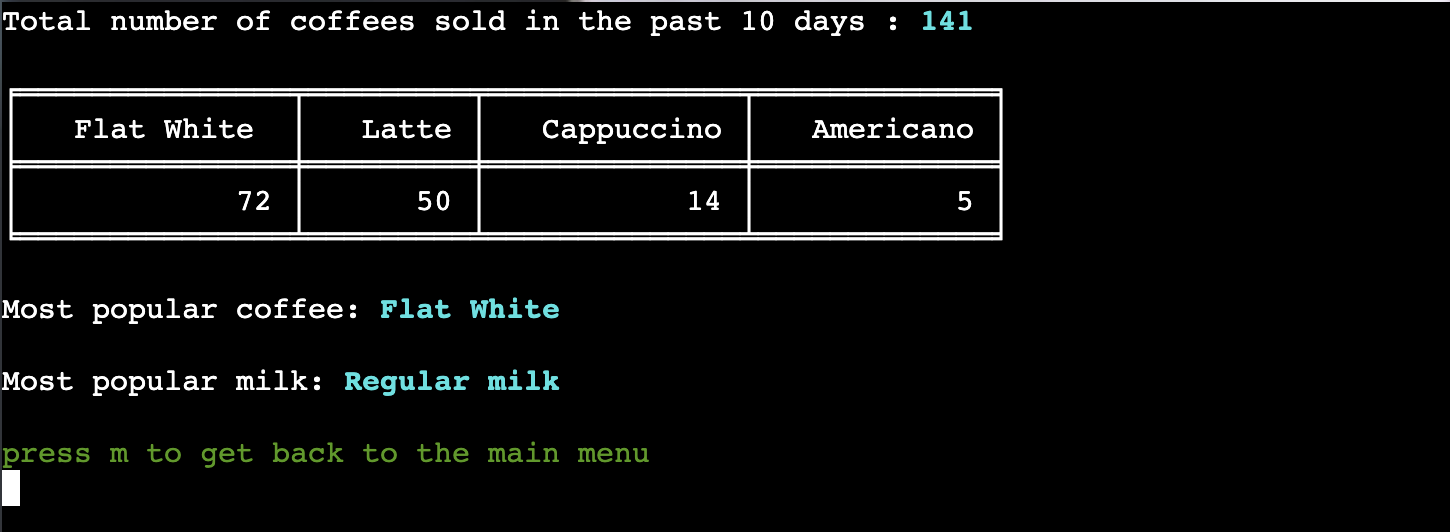
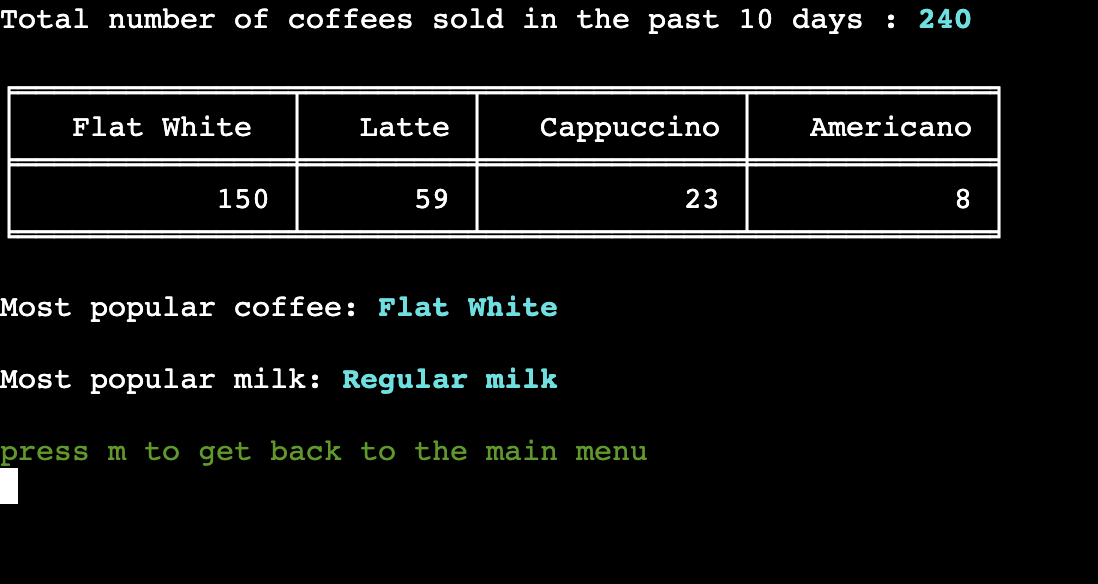
docs: update manual testing table in testing file

diff --git a/run.py b/run.py
@@ -559,7 +559,7 @@ def date_range(days):
     for x in range(days):
         date = now - timedelta(days=x)
         date_string = date.strftime("%d/%m/%Y")
-        dates_list.append(date_string)
+        dates_list.append(date_string) 
     return dates_list
 
 
@@ -1135,4 +1135,3 @@ def main():
 user_order = Order()
 
 main()
-

diff --git a/TESTING.md b/TESTING.md
@@ -297,6 +297,103 @@ This example below shows that the order was submitted at 13:38:33 on 1/07/23.  T
 
 ![Send Data Sales Details](docs/features/google-sheets-send-data-sales.png)
 
+| Feature Tested | Expected Outcome | Testing Performed | Pass/Fail |
+| ------- | ---------------- | ----------------- | --------- |
+|         |
+| Validation for user input 'what would you like to do next?': **Enter 1 - 2 here** | Error handled and feedback message displayed to user | Attempt input of  "w" "!" "empty" "0" "3" | Pass |
+
+![Completed Order Next Steps](docs/features/coffee-run-finalised-order-invalid-code.png)
+
+| Feature Tested | Expected Outcome | Testing Performed | Pass/Fail |
+| ------- | ---------------- | ----------------- | --------- |
+|         |
+| Validation for user input 'what would you like to do next?': **Enter 1 - 2 here** | Input validated, Display summary of completed order by calling the function view_order("completed") | Input "2" | Pass |
+
+![View Completed Order Summary](docs/features/coffee-run-finalised-order-summary.png)
+
+ Feature Tested | Expected Outcome | Testing Performed | Pass/Fail |
+| ------- | ---------------- | ----------------- | --------- |
+|         |
+| Validation for user input 'what would you like to do next?': **Enter 1 - 2 here** | Input validated, call main function to direct user back to the main menu | Input "1" | Pass |
+
+![Return To Main Menu After Order Complete](docs/features/coffee-run-main-menu.png)
+
+<br>
+
+**Cancel Order**
+
+<br>
+
+| Feature Tested | Expected Outcome | Testing Performed | Pass/Fail |
+| ------- | ---------------- | ----------------- | --------- |
+|         |
+| Validation for user input: **Enter 1 - 6 here:** | Input validated, call the function clear_order and main to return to main menu | Input "6" | Pass |
+
+<br>
+
+**View Existing Order**
+
+<br>
+
+| Feature Tested | Expected Outcome | Testing Performed | Pass/Fail |
+| ------- | ---------------- | ----------------- | --------- |
+|         |
+| Validation for user input: **Enter 1-4 here** | Input validated, call the function view_completed(pull_menu("orders")), user input prompt for order reference displayed | Input "2" | Pass |
+
+![Input Order Reference](docs/features/coffee-run-existing-order-enter-ref.png)
+
+| Feature Tested | Expected Outcome | Testing Performed | Pass/Fail |
+| ------- | ---------------- | ----------------- | --------- |
+|         |
+| Validation for user input: **Enter a reference here:** | Error handled and feedback message displayed to user | Attempt input of "t" "!" "empty" "0" "1000" | Pass |
+
+![Order Reference Validation](docs/features/cofee-run-invalid-order-ref.png)
+
+| Feature Tested | Expected Outcome | Testing Performed | Pass/Fail |
+| ------- | ---------------- | ----------------- | --------- |
+|         |
+| Validation for user input: **Enter a reference here:** | Input validated, Order details displayed | input "179" | Pass |
+
+![Existing Order Pending](docs/features/coffee-run-existing-order-pending.png)
+
+<br>
+
+**Admin View**
+
+<br>
+
+| Feature Tested | Expected Outcome | Testing Performed | Pass/Fail |
+| ------- | ---------------- | ----------------- | --------- |
+|         |
+| Validation for user input: **Enter 1-4 here** | Input validated, call the function admin_stats with an argument of 10 to view sales analysis for the past 10 days | input "3" | Pass |
+
+![Admin View](docs/features/coffee-run-admin-view.png)
+
+As you can see below, the function admin_stats filters sales for the past 10 days and uses this data to provide insight to the business owner.  In the spreadsheet below I have slected all rows for dates between 01/07/2023 and 22/06/2023 manually and you can see that the sum total of all coffees sold over this period (240) is the same figure reached by the admin_stats function.
+
+![Google Sheets Sales Total](docs/features/google-sheets-total-drinks.png)
+
+
+
+
+
+
+
+
+
+
+
+
+
+
+
+
+
+
+
+
+
+
 
 
 
